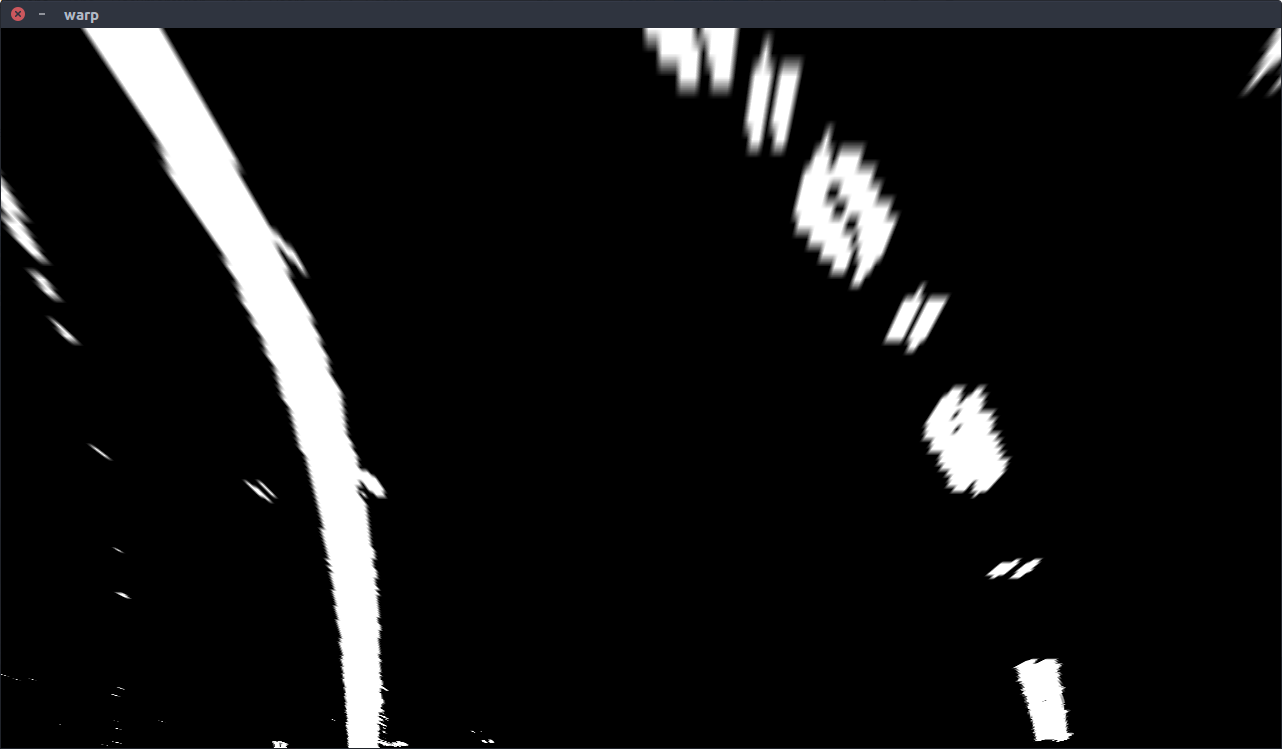
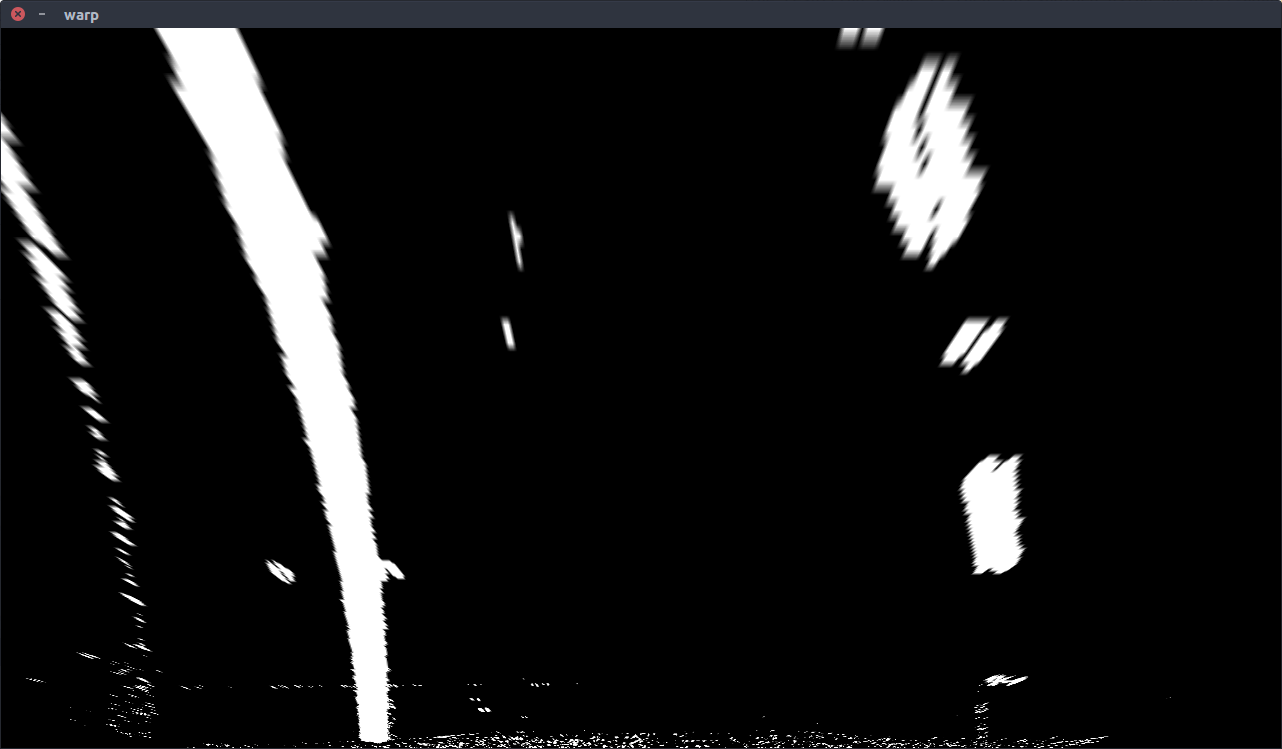
writeup

diff --git a/CarND-Advanced-Lane-Lines/writeup.md b/CarND-Advanced-Lane-Lines/writeup.md
@@ -15,7 +15,7 @@ The goals / steps of this project are the following:
 [//]: # (Image References)
 
 [image1]: ./output_images/distorted_undistorted.jpg "Distorted -> Undistorted"
-[image2]: ./output_images/threshold.jpg "Threshold"
+[image2]: ./output_images/threshold.png "Threshold"
 [image3]: ./output_images/warp.png "Warp"
 [image4]: ./output_images/histogram.jpg "Histogram"
 [image5]: ./output_images/initial_search.jpg "Initial Search"
@@ -64,9 +64,12 @@ The image shows an undistorted chessboard image on the left and after undistorti
 
 ![alt text][image1]
 
-###Pipeline (single images)
 
-####1. Provide an example of a distortion-corrected image.
+
+
+### Pipeline (single images)
+
+#### 1. Provide an example of a distortion-corrected image.
 
 First the calibration parameters need to be loaded from the pickle file:
 
@@ -86,47 +89,70 @@ On the left side an undistorted image from the test images is shown, on the righ
 
 
 #### 2. Describe how (and identify where in your code) you used color transforms, gradients or other methods to create a thresholded binary image.  Provide an example of a binary image result.
-I used a combination of color and gradient thresholds to generate a binary image (thresholding steps at lines # through # in `another_file.py`).  Here's an example of my output for this step.  (note: this is not actually from one of the test images)
 
-![alt text][image3]
+Thresholding is provided in `thresholding.py` in the function `thresholding(image, weight=(0.4, 0.6), thres=40)`. The function uses two methods for thresholding. A filtering of the grayscale image with a horizontal sobel filter of size 7 and the saturation channel of the image in HLS color space. 
+The two results are then combind to one image using a weight of 0.2 for the s-channel and 0.8 for the sobel filtered image.
+
+```sh
+weight = cv2.addWeighted(s_channel, weight[0], scaled_sobel, weight[1], 0)
+```
+
+The resulting image is then thresholded using an pixel-adaptive threshold value. For each frame in the warped image, the number of white pixels is counted. If the number of pixels is above a certain value (and therefore it's likely that too much non-lane pixels are shown and it will be harder to find the correct lane pixels) the threshold is increased for the next frame. If it is below a certain value, the threshold is decreased, because it's likely that useful lane pixels were cut out of the warped image. 
+
+![alt text][image2]
 
 #### 3. Describe how (and identify where in your code) you performed a perspective transform and provide an example of a transformed image.
 
-The code for my perspective transform includes a function called `warper()`, which appears in lines 1 through 8 in the file `example.py` (output_images/examples/example.py) (or, for example, in the 3rd code cell of the IPython notebook).  The `warper()` function takes as inputs an image (`img`), as well as source (`src`) and destination (`dst`) points.  I chose the hardcode the source and destination points in the following manner:
+Warping functionality is provided in `warp.py` in the function `prepare_perspective_transform`, which provides the transformation matrix and it's inverse. The source and destination points in the code are:
 
 ```
+offset_xt = 550
+offset_xb = 0
+
 src = np.float32(
-    [[(img_size[0] / 2) - 55, img_size[1] / 2 + 100],
-    [((img_size[0] / 6) - 10), img_size[1]],
-    [(img_size[0] * 5 / 6) + 60, img_size[1]],
-    [(img_size[0] / 2 + 55), img_size[1] / 2 + 100]])
+[[0+offset_xb, 650],
+ [offset_xt, 450],
+ [1280-offset_xt, 450],
+ [1280-offset_xb, 650]])
+
 dst = np.float32(
-    [[(img_size[0] / 4), 0],
-    [(img_size[0] / 4), img_size[1]],
-    [(img_size[0] * 3 / 4), img_size[1]],
-    [(img_size[0] * 3 / 4), 0]])
+[[0,720],
+ [0,0],
+ [1280,0],
+ [1280,720]])
 
 ```
 This resulted in the following source and destination points:
 
 | Source        | Destination   | 
 |:-------------:|:-------------:| 
-| 585, 460      | 320, 0        | 
-| 203, 720      | 320, 720      |
-| 1127, 720     | 960, 720      |
-| 695, 460      | 960, 0        |
+| 0, 650        | 0, 720        | 
+| 550, 450      | 0, 0          |
+| 730, 720      | 1280, 0       |
+| 1280, 650     | 1280, 720     |
 
 I verified that my perspective transform was working as expected by drawing the `src` and `dst` points onto a test image and its warped counterpart to verify that the lines appear parallel in the warped image.
 
+![alt text][image3]
+
+
+#### 4. Describe how (and identify where in your code) you identified lane-line pixels and fit their positions with a polynomial?
+
+As proposed in the course, I first calculated the histogram of the lower quater of the image, which gave a good indication of the position of the left and right lane. The histogram is split in the center and the highest value on each side is then considered to be the position of each lane. 
+
 ![alt text][image4]
 
-####4. Describe how (and identify where in your code) you identified lane-line pixels and fit their positions with a polynomial?
-
-Then I did some other stuff and fit my lane lines with a 2nd order polynomial kinda like this:
+From these positions a windows search like the one proposed in the course is conducted. Within each window the non zero pixels are considered to be lane pixels. The horizontal mean of those pixels is then used as the center of the next window above the current one until the top of the image.
+Each of those lane pixels are collected and then used to fit a 2nd degree polynom on it - the lane lines.
 
 ![alt text][image5]
 
-####5. Describe how (and identify where in your code) you calculated the radius of curvature of the lane and the position of the vehicle with respect to center.
+Once run, the following frames don't need to perform a new histogram and window search. Now the lane pixels are only considered to be within a certain margin around the previously calculated polynoms. Once found, new polynoms are calculated.
+
+I run a plausability check after each polynom calculation. If the new found polynom differs too much from the one found in the previous frame, it is likely that the new one is wrong e.g. due to changed image conditions. In this case the previous calculated polynom is taken as lane polynom. This can only be done for a certain number of frames, if after 50 frames the new calculated polynom still differs too much, a new initial histogram and window search is performed.
+
+
+#### 5. Describe how (and identify where in your code) you calculated the radius of curvature of the lane and the position of the vehicle with respect to center.
 
 I did this in lines # through # in my code in `my_other_file.py`
 
